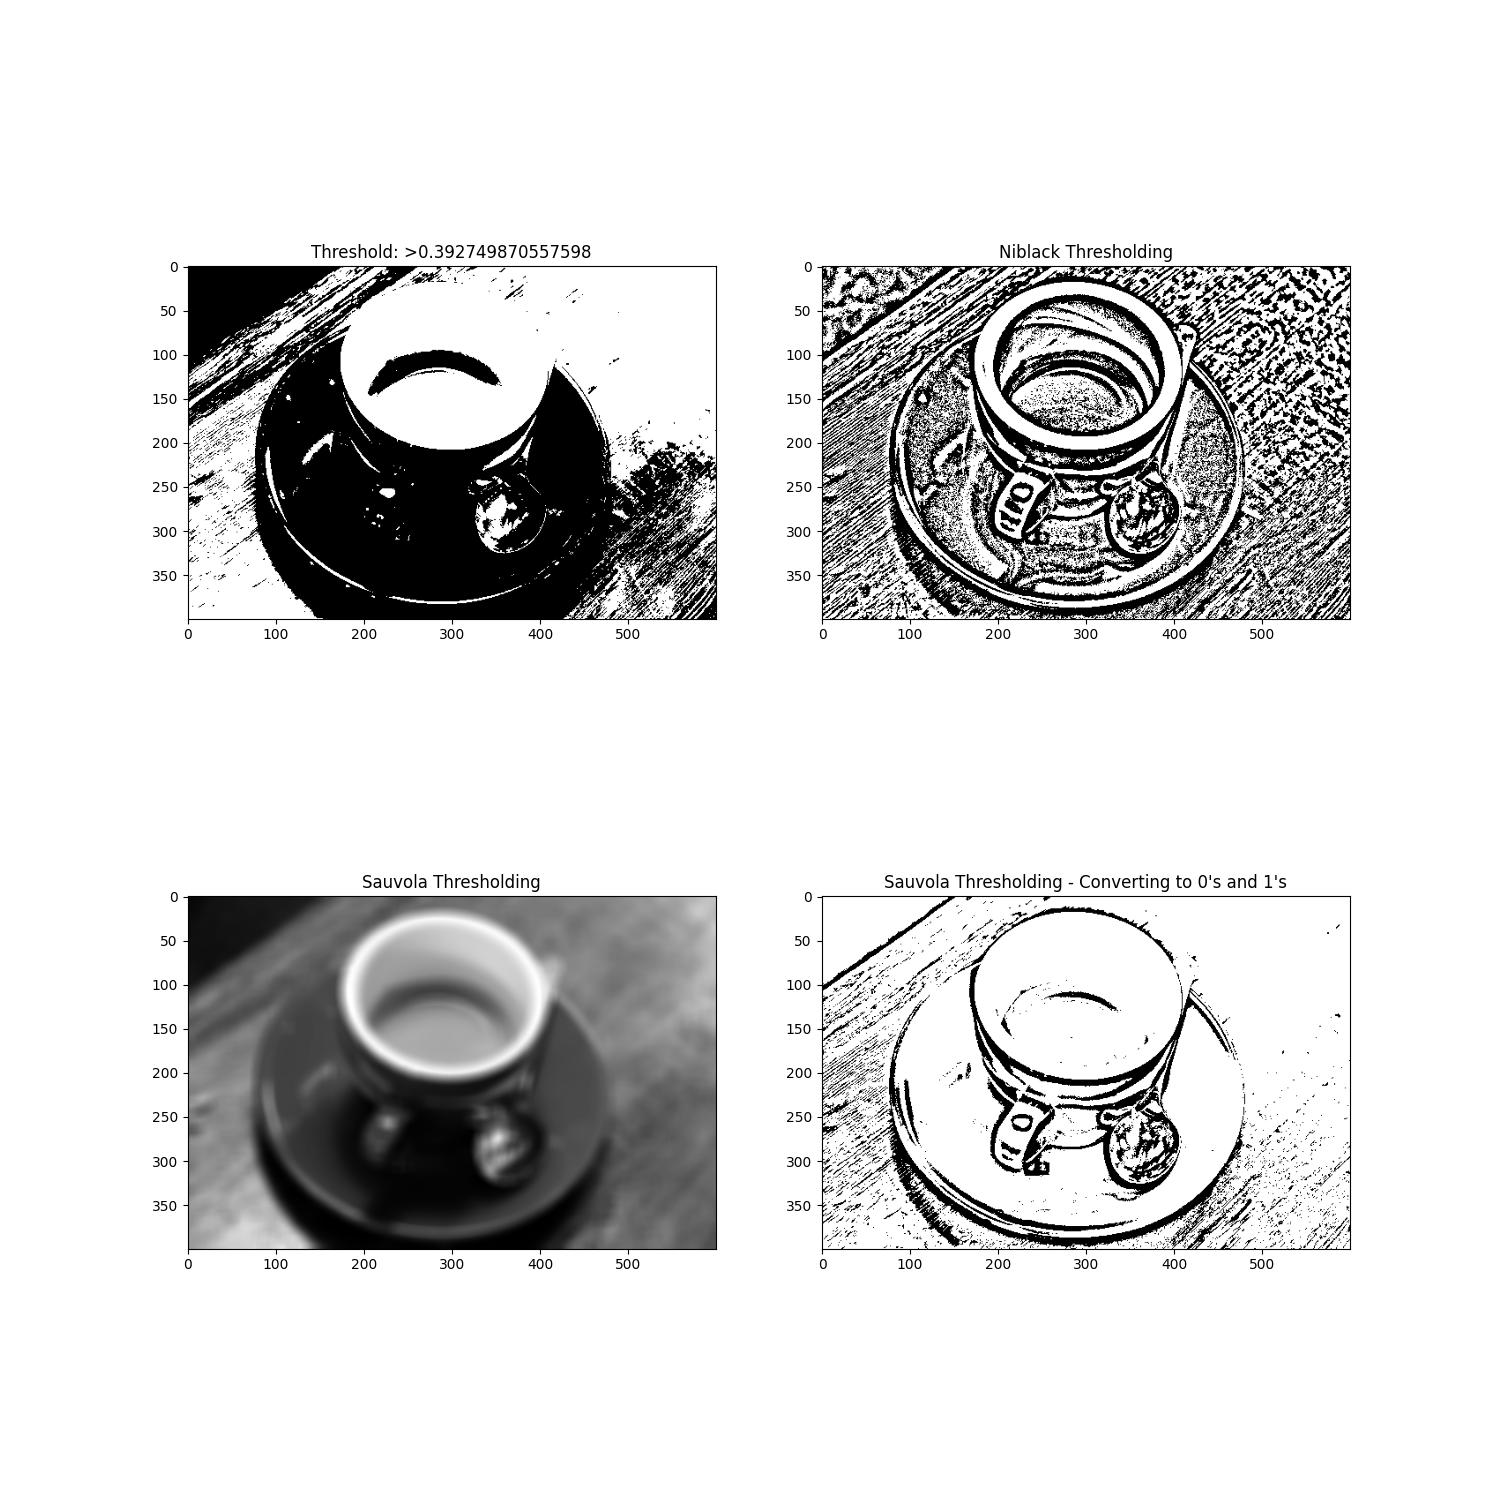
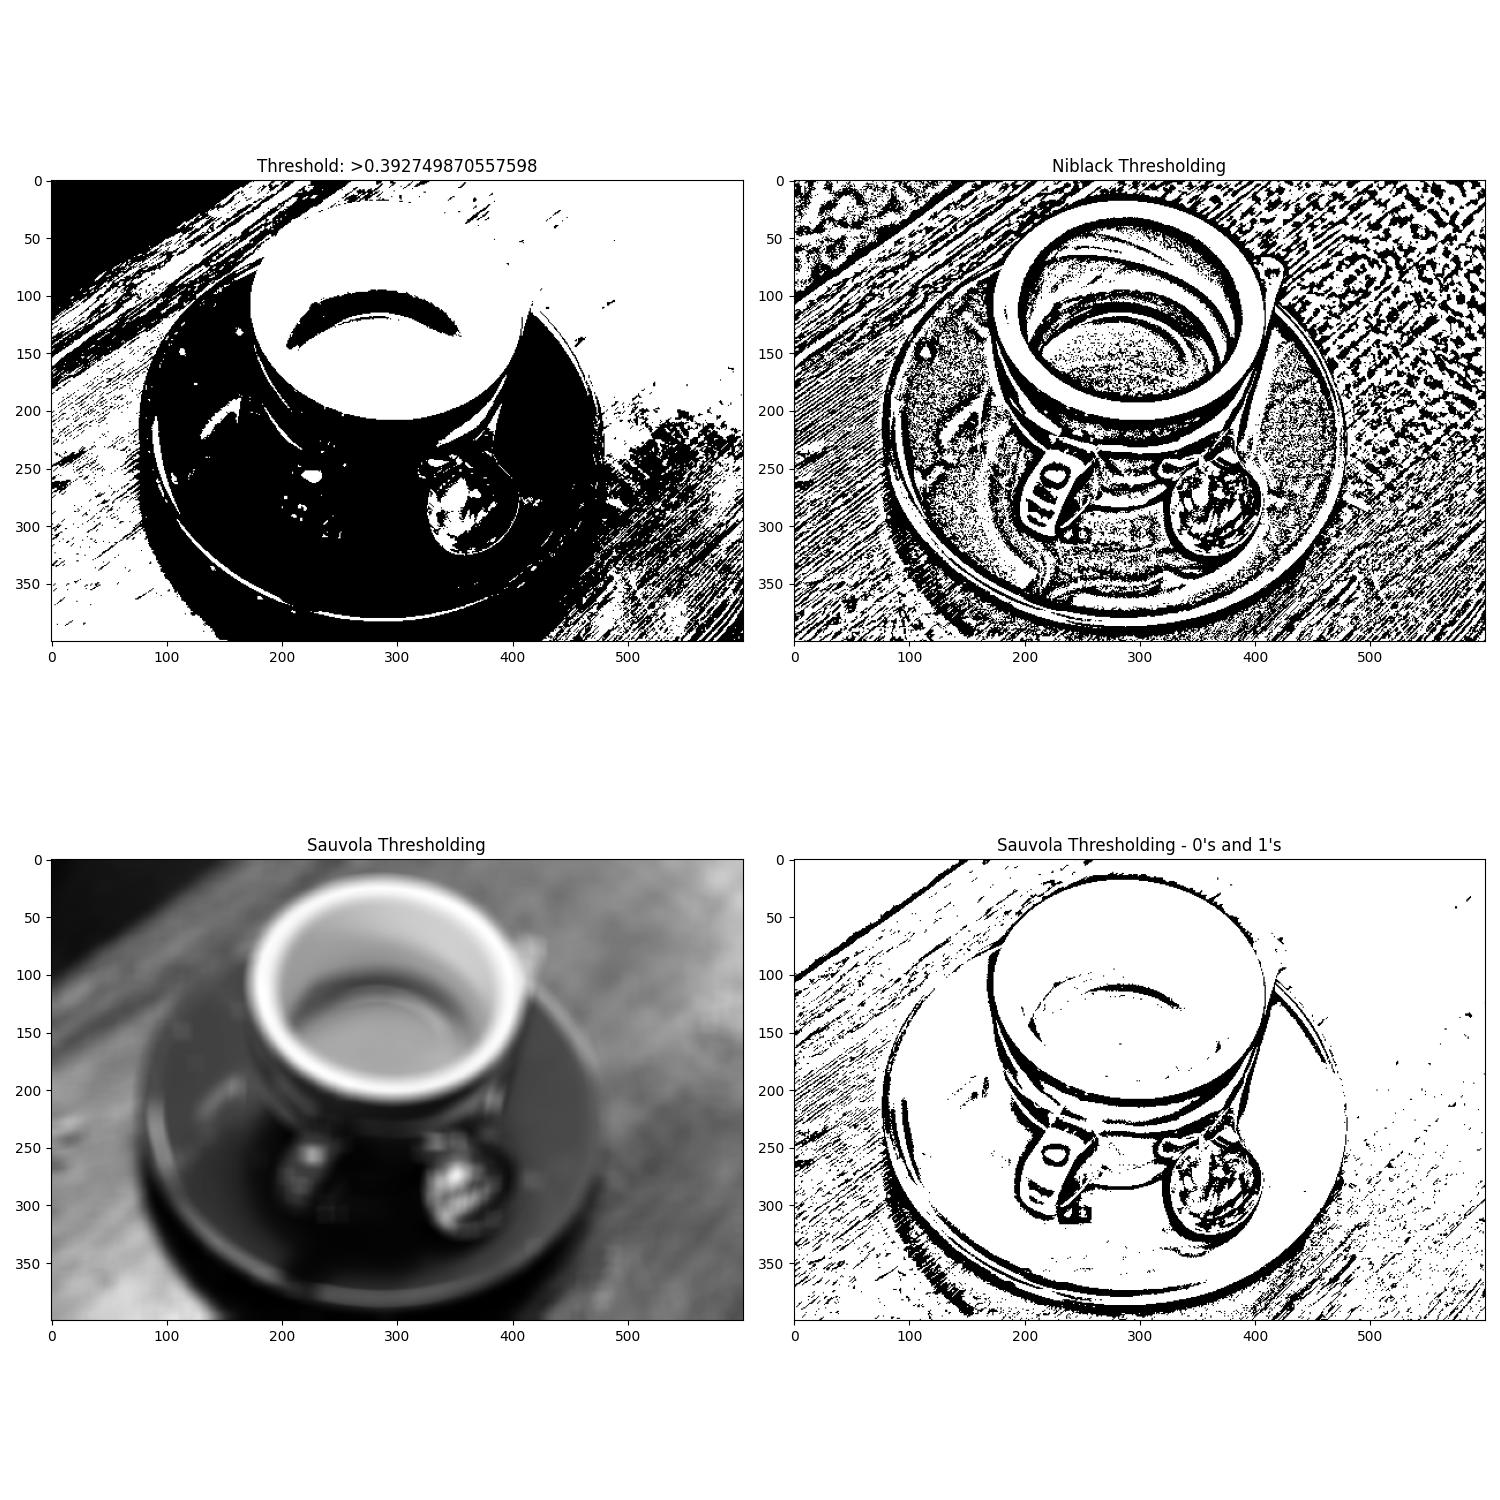
fix: refactored some methods to be less confusing and look more simple

Changed region(s): [[0.0307, 0.092, 1.0, 0.4293], [0.0307, 0.552, 1.0, 0.8893], [0.3987, 0.736, 0.4293, 0.7667]]

diff --git a/trailhead/VC/scikit-image/src/coffee.py b/trailhead/VC/scikit-image/src/coffee.py
@@ -1,12 +1,11 @@
 from os import path
 from skimage import data, filters
-from skimage.filters import thresholding
+from skimage.filters import thresholding as th
 from skimage.color import rgb2gray, rgb2hsv
 from typing import Callable, TypeAlias, Union
 import matplotlib.pyplot as plt
 from matplotlib.image import AxesImage
 
-#AxImage: TypeAlias = plt.AxesImage
 ImageColor: TypeAlias = 'np.ndarray[np.ndarray[np.ndarray[np.uint8]]]'
 ImageBw: TypeAlias = 'np.ndarray[np.ndarray[np.uint8]]'
 ImageAny: TypeAlias = Union[ImageBw, ImageColor]
@@ -17,7 +16,14 @@ class Coffee:
         self.coffee: ImageAny = data.coffee()
         self.gcoffee: ImageBw = rgb2gray(self.coffee)
         self.show: bool = show
-        self.figure: plt.Figure = plt.figure(figsize=(15, 15))
+        plt.figure(figsize=(15, 15))
+
+    def _savefig(self, fname: str) -> None:
+        plt.tight_layout()
+        plt.savefig(path.join(self.savelocation, fname))
+        if self.show: plt.show()
+        # Resets the figure so that after many saves they all will look right
+        plt.figure(figsize=(15, 15))
 
     @staticmethod
     def _plt_config(*args, **kwargs) -> None:
@@ -32,15 +38,13 @@ class Coffee:
         _s: ImageAny = method(self.coffee)
         self._plt_config((1, 2, 1), self.coffee)
         self._plt_config((1, 2, 2), _s, **kwargs)
-        plt.savefig(path.join(self.savelocation, fname))
+        self._savefig(fname)
 
     def plot_gray(self, fname: str='plot_gray.jpg') -> None:
         self._gray_or_hsv(rgb2gray, fname, cmap='gray')
-        if self.show: plt.show()
 
     def plot_hsv(self, fname: str='plot_hsv.jpg') -> None:
         self._gray_or_hsv(rgb2hsv, fname)
-        if self.show: plt.show()
 
     def limiar_segmentation(self, fname: str='thresholds.jpg') -> None:
         for i in range(10):
@@ -48,9 +52,7 @@ class Coffee:
             plt.subplot(5, 2, i+1)
             plt.title(f'Threshold: > {round(i*0.1,1)}')
             plt.imshow(bin_gray, cmap='gray')
-        plt.tight_layout()
-        plt.savefig(path.join(self.savelocation, fname))
-        if self.show: plt.show()
+        self._savefig(fname)
 
     @staticmethod
     def _plot_limiar_config(i: int, title: str, img: ImageBw) -> None:
@@ -58,47 +60,20 @@ class Coffee:
         plt.title(title)
         plt.imshow(img, cmap='gray')
 
-    def _plot_limiar_sk(self, i: int, 
-                        filter: Callable, 
-                        title: str,
-                        threshold: float=None) -> float:
-        if threshold is not None:
-            self._plot_limiar_config(i, title, threshold)
-        else:
-            threshold = filter(self.gcoffee)
-            bin_coffee: ImageBw = (self.gcoffee > threshold) * 1
-            if filter is thresholding.threshold_otsu:
-                # Adds the threshold to threshold_otsu's title
-                title += str(threshold)
-            self._plot_limiar_config(i, title, bin_coffee)
-        return threshold
-
     def limiar_sk(self, fname: str='limiar_sk.jpg') -> None:
-        titles: list[str] = [
-                'Threshold: >',
-                'Niblack Thresholding', 
-                'Sauvola Thresholding', 
-                'Sauvola Thresholding - Converting to 0\'s and 1\'s' ]
 
-        sk_filters: list[Callable]; 
-        sk_filters = [thresholding.threshold_otsu, 
-                      thresholding.threshold_niblack, 
-                      thresholding.threshold_sauvola,
-                      thresholding.threshold_sauvola]
+        ts: list[str, str, tuple[str, str]]; skm: list[Callable]; 
+        ts = ['Threshold: >', 'Niblack Thresholding', 
+              ('Sauvola Thresholding', "Sauvola Thresholding - 0's and 1's")]
+        skm = [th.threshold_otsu, th.threshold_niblack, th.threshold_sauvola]
 
-        threshold = None
-        for i, (filter, title) in enumerate(zip(sk_filters, titles), start=1):
-            if i == 3:
-                threshold = self._plot_limiar_sk(i, filter, title, threshold)
+        for i, (method, title) in enumerate(zip(skm, ts), start=1):
+            threshold = method(self.gcoffee)
+            bin_coffee = (self.gcoffee > threshold)*1
+            if method is th.threshold_sauvola:
+                self._plot_limiar_config(i, title[0], threshold)
+                self._plot_limiar_config(i+1, title[1], bin_coffee)
             else:
-                threshold = self._plot_limiar_sk(i, filter, title)
-
-        plt.savefig(path.join(self.savelocation, fname))
-        if self.show: plt.show()
-
-if __name__ == '__main__':
-
-    C = Coffee('exports')
-    C.plot_gray()
-    C.limiar_segmentation()
-    C.limiar_sk()
+                if title == 'Threshold: >': title += str(threshold)
+                self._plot_limiar_config(i, title, bin_coffee)
+        self._savefig(fname)

diff --git a/trailhead/VC/scikit-image/main.py b/trailhead/VC/scikit-image/main.py
@@ -1,0 +1,9 @@
+from src.coffee import Coffee
+
+if __name__ == '__main__':
+
+    C = Coffee(savelocation='exports')
+    C.plot_gray()
+    C.plot_hsv()
+    C.limiar_segmentation()
+    C.limiar_sk()
